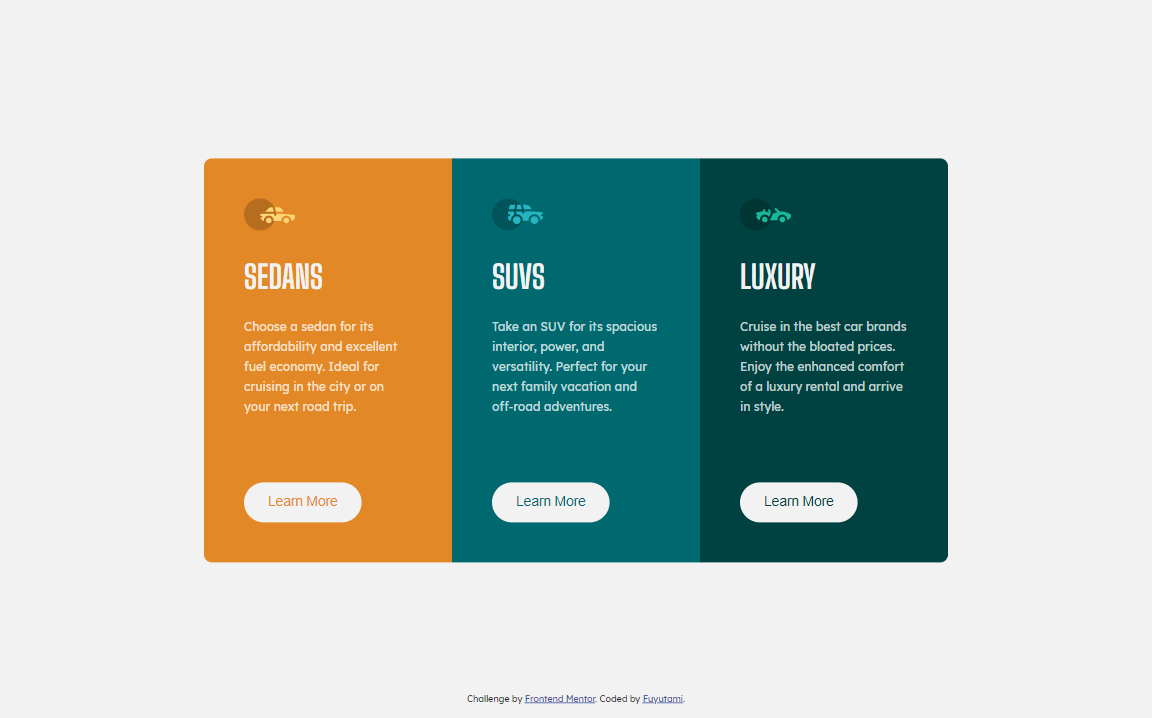
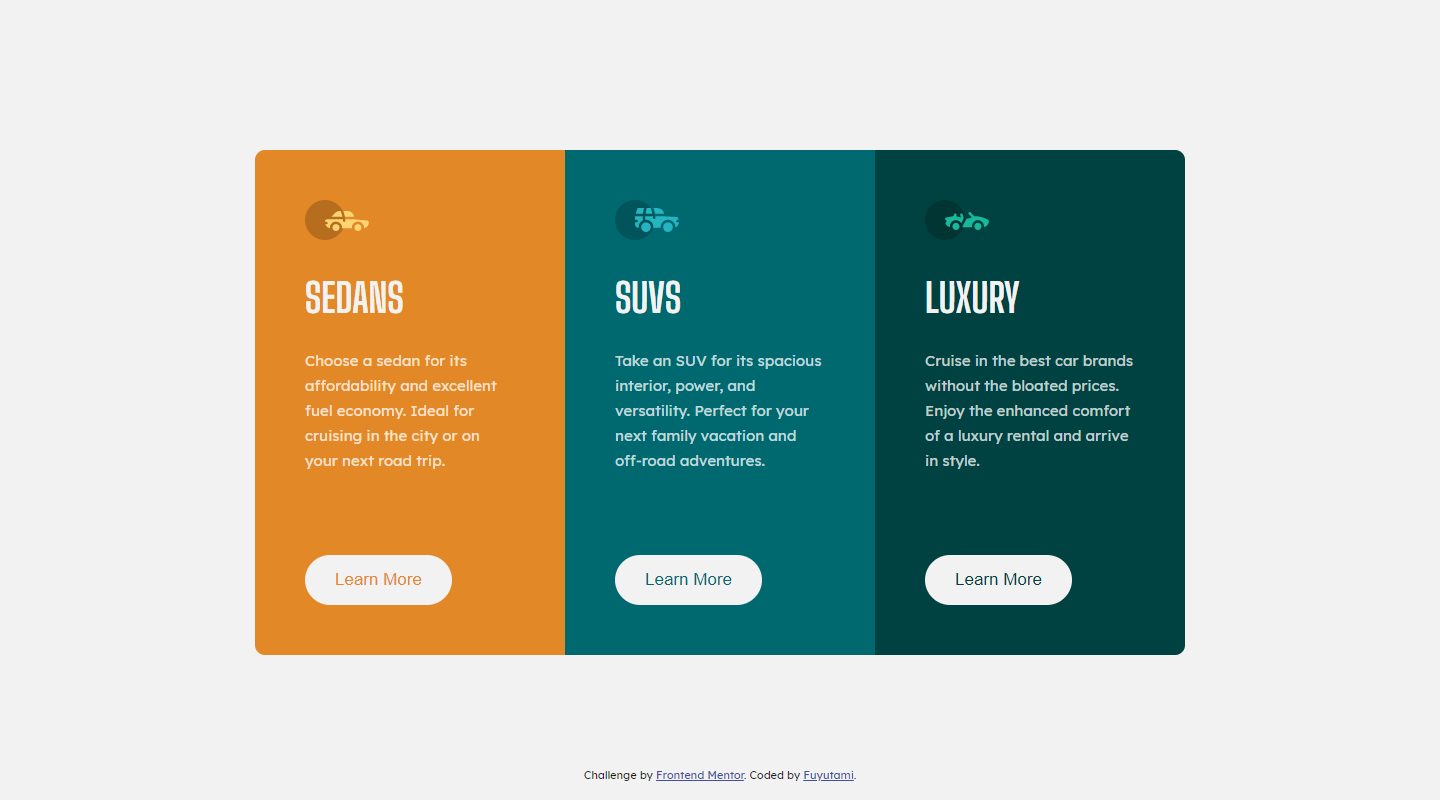
improve html semantics

diff --git a/index.html b/index.html
@@ -16,32 +16,34 @@
   </style>
 </head>
 <body>
-  <main class="container">
-    <div class="card card--sedans">
-      <img src="images/icon-sedans.svg" alt="Sedan image" class="card__image">
-      <h1 class="card__heading">Sedans</h1>
-      <p class="card__description">Choose a sedan for its affordability and excellent fuel economy. Ideal for cruising in the city or on your next road trip.</p>
-      <button class="card__btn card__btn--sedans">Learn More</button>
-    </div>
-
-    <div class="card card--suvs">
-      <img src="images/icon-suvs.svg" alt="Suvs image" class="card__image">
-      <h1 class="card__heading">Suvs</h1>
-      <p class="card__description">Take an SUV for its spacious interior, power, and versatility. Perfect for your next family vacation and off-road adventures.</p>
-      <button class="card__btn card__btn--suvs">Learn More</button>
-    </div>
-
-    <div class="card card--luxury">
-      <img src="images/icon-luxury.svg" alt="Luxury image" class="card__image">
-      <h1 class="card__heading">Luxury</h1>
-      <p class="card__description">Cruise in the best car brands without the bloated prices. Enjoy the enhanced comfort of a luxury rental and arrive in style.</p>
-      <button class="card__btn card__btn--luxury">Learn More</button>
-    </div>
-  </main>
+  <section class="card-component">
+    <div class="container">
+      <div class="card card--sedans">
+        <img src="images/icon-sedans.svg" alt="Sedan image" class="card__image">
+        <h3 class="card__heading">Sedans</h3>
+        <p class="card__description">Choose a sedan for its affordability and excellent fuel economy. Ideal for cruising in the city or on your next road trip.</p>
+        <button class="card__btn card__btn--sedans">Learn More</button>
+      </div>
   
-  <footer class="attribution">
-     Challenge by <a href="https://www.frontendmentor.io?ref=challenge" target="_blank">Frontend Mentor</a>. 
-    Coded by <a href="#">Fuyutami</a>.
-  </footer>
+      <div class="card card--suvs">
+        <img src="images/icon-suvs.svg" alt="Suvs image" class="card__image">
+        <h3 class="card__heading">Suvs</h3>
+        <p class="card__description">Take an SUV for its spacious interior, power, and versatility. Perfect for your next family vacation and off-road adventures.</p>
+        <button class="card__btn card__btn--suvs">Learn More</button>
+      </div>
+  
+      <div class="card card--luxury">
+        <img src="images/icon-luxury.svg" alt="Luxury image" class="card__image">
+        <h3 class="card__heading">Luxury</h3>
+        <p class="card__description">Cruise in the best car brands without the bloated prices. Enjoy the enhanced comfort of a luxury rental and arrive in style.</p>
+        <button class="card__btn card__btn--luxury">Learn More</button>
+      </div>
+    </div>
+
+    <div class="attribution">
+      Challenge by <a href="https://www.frontendmentor.io?ref=challenge" target="_blank">Frontend Mentor</a>. 
+     Coded by <a href="#">Fuyutami</a>.
+   </div>
+  </section>
 </body>
 </html>

diff --git a/sass/main.scss b/sass/main.scss
@@ -25,22 +25,23 @@ body {
    font-family: 'Lexend Deca', sans-serif;
    font-weight: 400;
    font-size: 1.5rem;
-   color: var(--transparent-white);
-   background-color: var(--very-light-grey);
-   position: relative;
+   color: var(--transparent-white); 
+}
 
+.card-component {
+   background-color: var(--very-light-grey);
+   padding: 5rem 2rem;
+   position: relative;
    min-height: 100vh;
+
    display: flex;
    flex-direction: column;
    align-items: center;
    justify-content: center
 }
 
-
 .container {
     border-radius: 10px;
-    margin: 5rem 2rem;
-
     display: flex;
 
     @media only screen and (max-width: 56.25em) {
@@ -123,14 +124,10 @@ body {
             color: var(--very-dark-cyan);
         }
     }
-
-    
 }
 
 .attribution {
     color: rgb(31, 31, 31);
     position: absolute;
-    left: 50%;
-    transform: translateX(-50%);
-    bottom: 2rem;
+    bottom: 2rem; 
 }

diff --git a/css/main.css b/css/main.css
@@ -24,7 +24,11 @@ body {
   font-weight: 400;
   font-size: 1.5rem;
   color: var(--transparent-white);
+}
+
+.card-component {
   background-color: var(--very-light-grey);
+  padding: 5rem 2rem;
   position: relative;
   min-height: 100vh;
   display: flex;
@@ -35,7 +39,6 @@ body {
 
 .container {
   border-radius: 10px;
-  margin: 5rem 2rem;
   display: flex;
 }
 
@@ -129,7 +132,5 @@ body {
 .attribution {
   color: #1f1f1f;
   position: absolute;
-  left: 50%;
-  transform: translateX(-50%);
   bottom: 2rem;
 }
